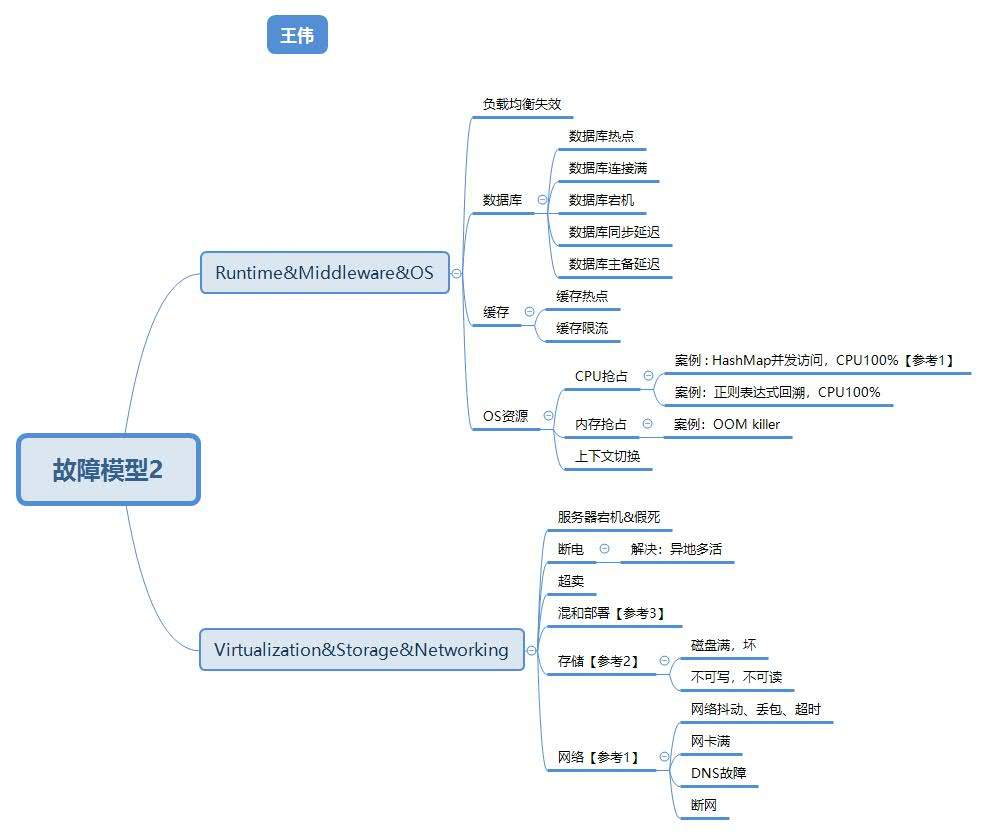
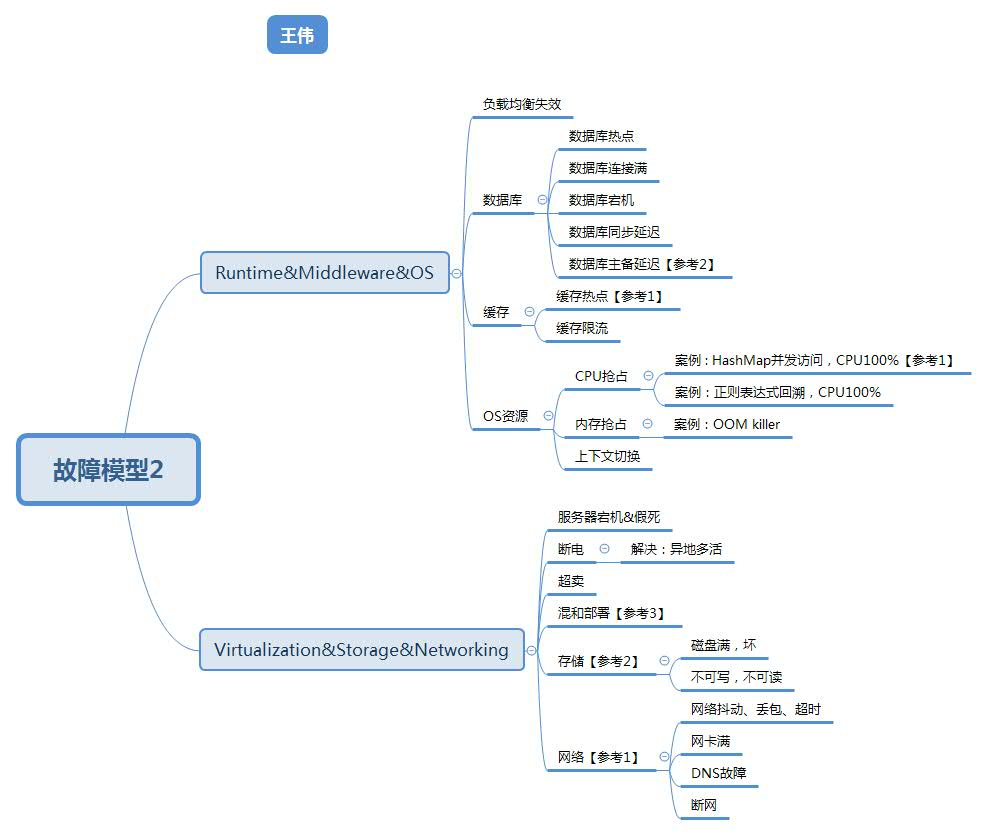
add

diff --git a/source/_posts/fault.md b/source/_posts/fault.md
@@ -18,26 +18,29 @@ categories:
 ## 参考：
 
 ### 大纲
-5. 超全总结 | 阿里如何应对电商故障？神秘演练细节曝光  阿里巴巴  周洋
+1. 超全总结 | 阿里如何应对电商故障？神秘演练细节曝光  阿里巴巴  周洋
 
 ### Application & Data
 1. 不正当使用HashMap导致cpu 100%的问题追究 王宏江
 2. [一个由正则表达式引发的血案](http://www.cnblogs.com/study-everyday/p/7426862.html) 
-3. [GC总结](http://www6v.github.io/www6vHome/gc.html) 
-4. [线程池最佳线程数](http://www6v.github.io/www6vHome/threadNum.html)
+3. [GC总结](http://www6v.github.io/www6vHome/gc.html) self
+4. [线程池最佳线程数](http://www6v.github.io/www6vHome/threadNum.html)  self
+5. 
+6. 
 7. 大方法 codecache  
 8. [vjtools](https://github.com/vipshop/vjtools) 
 9. [useful-scripts](https://github.com/oldratlee/useful-scripts) 
 10. 如何排查Java内存泄露(内附各种排查工具介绍) 不闻
 11. [生产环境下持久带满导致FullGC，如何跟踪](https://hllvm-group.iteye.com/group/topic/28379) 
-12. [性能调优](http://www6v.github.io/www6vHome/optimize.html)
+12. [性能调优](http://www6v.github.io/www6vHome/optimize.html) self
 13. 听阿里巴巴JVM工程师为你分析常见Java故障案例  陆传胜
 14. [从一个故障说说Java的三个BlockingQueue  阿里毕玄](http://hellojava.info/?p=464)
-15. [Hystrix实现和容错模式](http://www6v.github.io/www6vHome/Hystrix.html)
-16. [稳定性总结](http://www6v.github.io/www6vHome/stability.html)
+15. [Hystrix实现和容错模式](http://www6v.github.io/www6vHome/Hystrix.html)  self
+16. [稳定性总结](http://www6v.github.io/www6vHome/stability.html)  self
 
 ### Runtime & Middleware & OS
-6. [热点 Key 问题的发现与解决](https://help.aliyun.com/document_detail/67252.html)
+1. [热点 Key 问题的发现与解决](https://help.aliyun.com/document_detail/67252.html)
+2. [UCloud高可用数据库UDB主从复制延时的解决](https://www.admin5.com/article/20190404/902952.shtml)
 
 ### Virtualization & Storage & Networking
 1. [Kubernetes 网络疑难杂症排查分享](https://tencentcloudcontainerteam.github.io/2019/08/12/troubleshooting-with-kubernetes-network/) 
